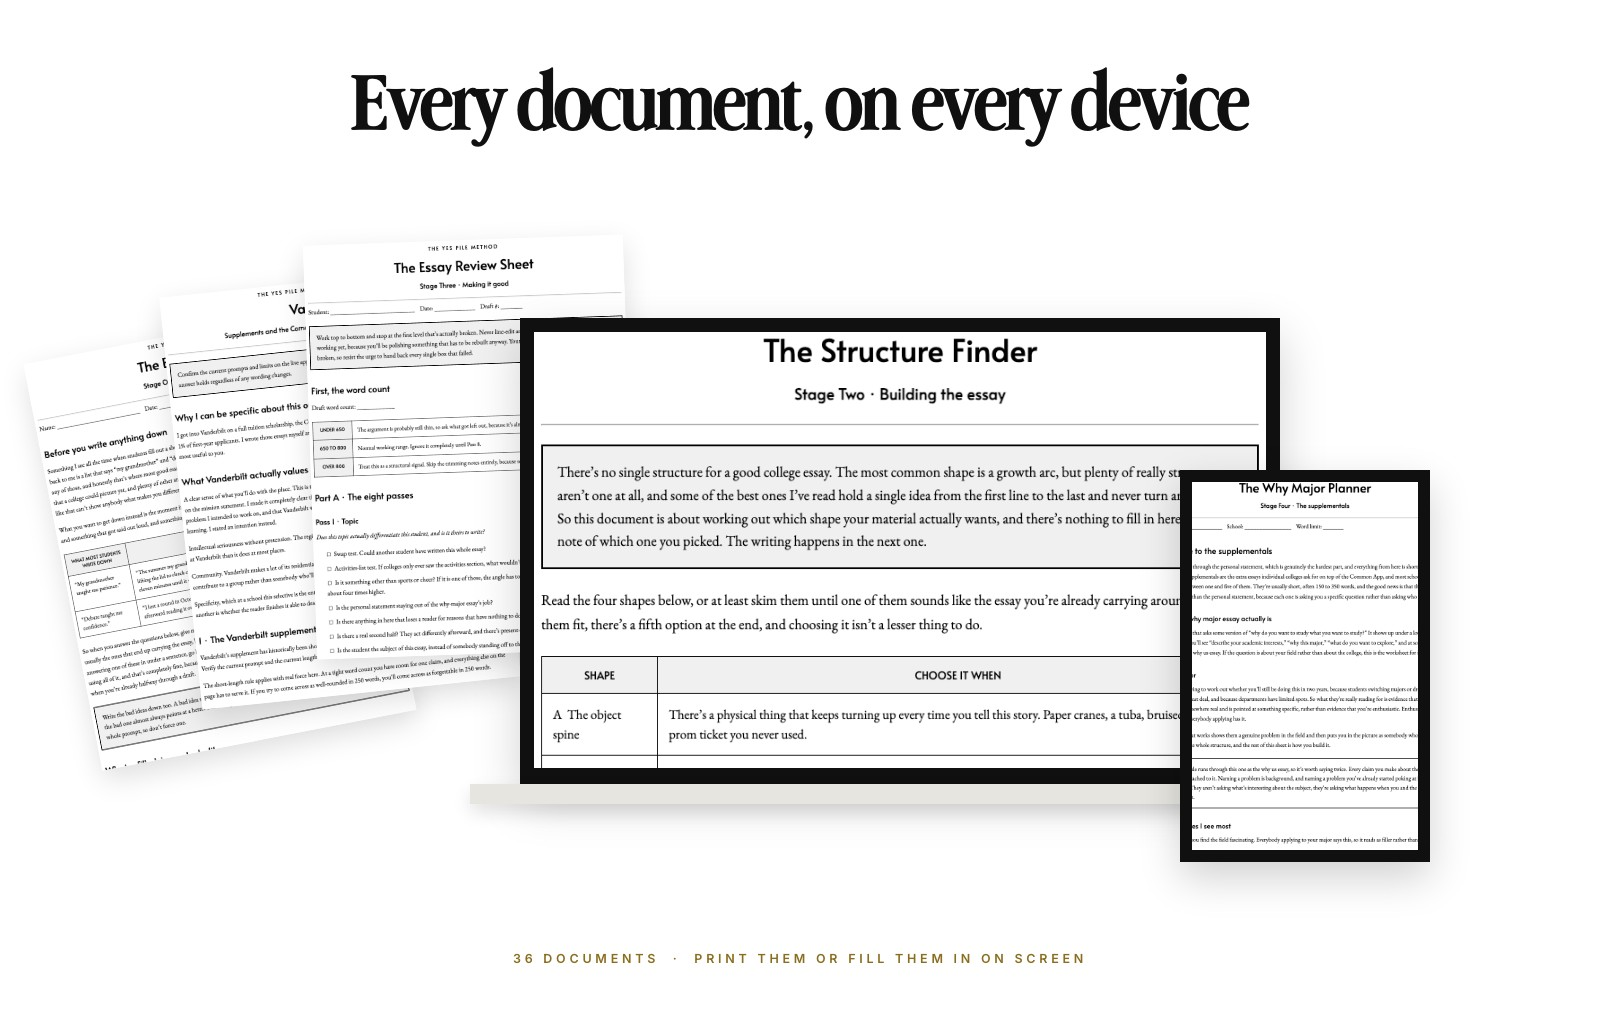
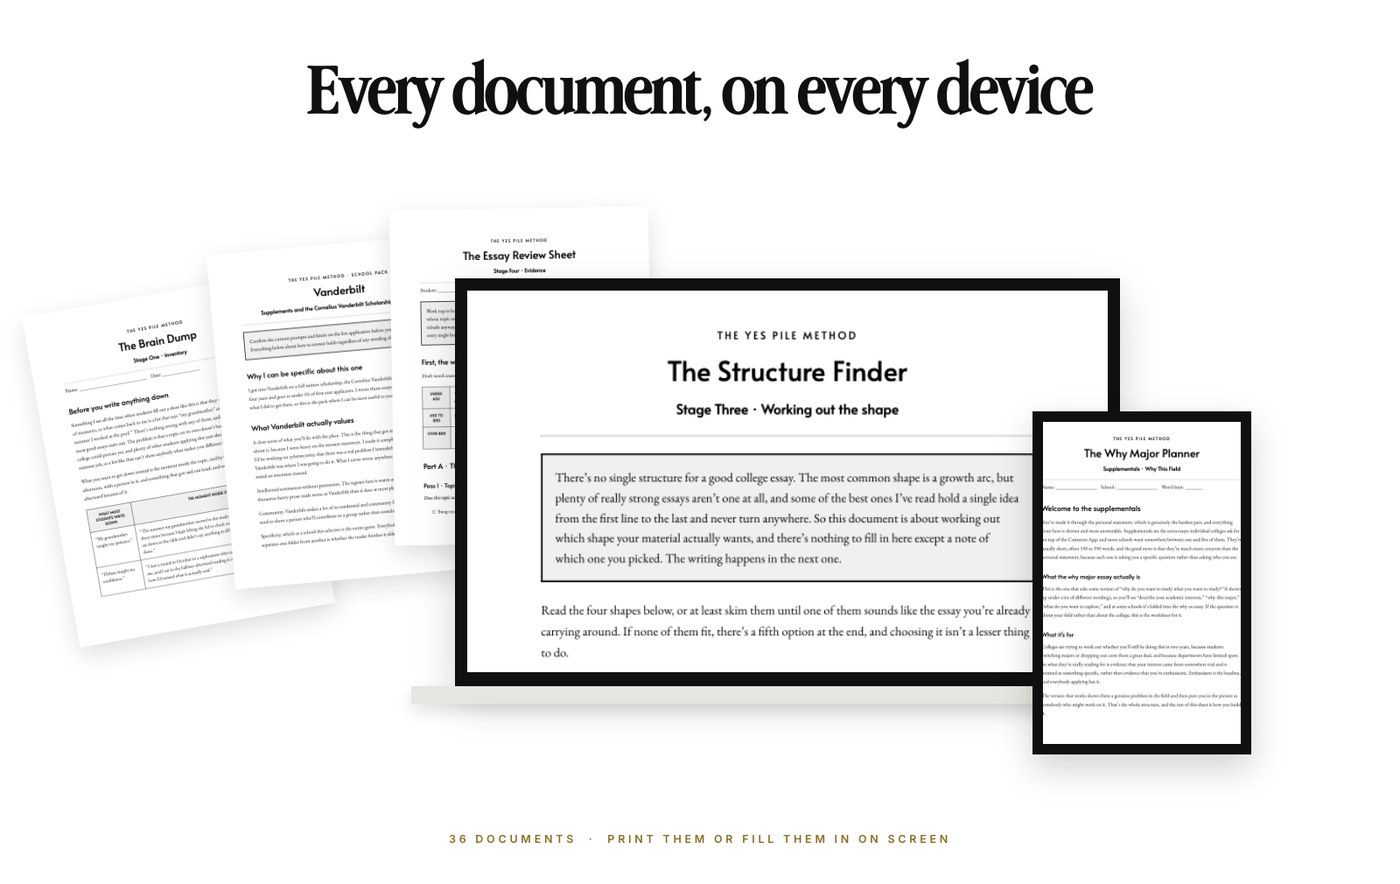
Fix the pack graphics and tighten the call clips
Graphics: the fanned cards overlapped so heavily that six of seven pages
showed only a sliver, which is what read as "too zoomed in", and the fan
ran off the bottom of the canvas. Cards 400x518 -> 300x388, rotation +/-20
-> +/-14, spread 720 -> 1055, so every worksheet title is legible and
nothing is clipped. Same treatment on the devices graphic.

"My real essays" was three flat web columns; the essays are now three
sheets of paper with shadows and a slight rotation, which is what the
graphic was claiming to show.

Call clips recut from a 13s window starting 5s before the thank-you to an
8s window starting 1.5s before, so they open on the student rather than on
Avigail still talking.

Homepage quotes now carry their acceptance screenshot underneath.

Changed region(s): [[0.0307, 0.2443, 0.8907, 0.8552]]

diff --git a/index.html b/index.html
@@ -454,18 +454,22 @@
       <figure class="hq">
         <blockquote>&ldquo;I applied Early Decision 1 to NYU Shanghai and was accepted with 71.5k in aid, so like full tuition and then some more.&rdquo;</blockquote>
         <figcaption>NYU Shanghai &middot; $71,500 a year</figcaption>
+        <img src="media/results/nilufar-nyu-shanghai.jpg" alt="NYU Shanghai acceptance email" loading="lazy" decoding="async"/>
       </figure>
       <figure class="hq">
         <blockquote>&ldquo;I wanted to reach out and let you know I got into New York University on a full ride, with housing included!&rdquo;</blockquote>
         <figcaption>New York University &middot; Full ride</figcaption>
+        <img src="media/results/ei-nyu-full-ride.jpg" alt="NYU full ride acceptance email" loading="lazy" decoding="async"/>
       </figure>
       <figure class="hq">
         <blockquote>&ldquo;I committed to Cornell! I can't thank you enough for all the help with my applications.&rdquo;</blockquote>
         <figcaption>Cornell University</figcaption>
+        <img src="media/results/web-alec-cornell.jpg" alt="Cornell acceptance email" loading="lazy" decoding="async"/>
       </figure>
       <figure class="hq">
         <blockquote>&ldquo;My 3.18 GPA made this a reach, and I truly believe my essay was the thing that got me in.&rdquo;</blockquote>
         <figcaption>University of Pittsburgh</figcaption>
+        <img src="media/results/web-amiya-pittsburgh-text.jpg" alt="University of Pittsburgh acceptance message" loading="lazy" decoding="async"/>
       </figure>
     </div>
 

diff --git a/style.css b/style.css
@@ -675,6 +675,7 @@ blockquote { quotes: none; }
 .hq { margin: 0; background: var(--paper); padding: 26px 28px 28px; }
 .hq blockquote { font-family: var(--font-display); font-size: 18px; line-height: 1.5; color: var(--ink); }
 .hq figcaption { margin-top: 14px; font-size: 10px; font-weight: 600; letter-spacing: 0.18em; text-transform: uppercase; color: var(--gold-deep); }
+.hq img { width: calc(100% + 56px); margin: 20px -28px -28px; display: block; border-top: 1px solid var(--hair); }
 
 .teaser-cta { text-align: center; }
 
